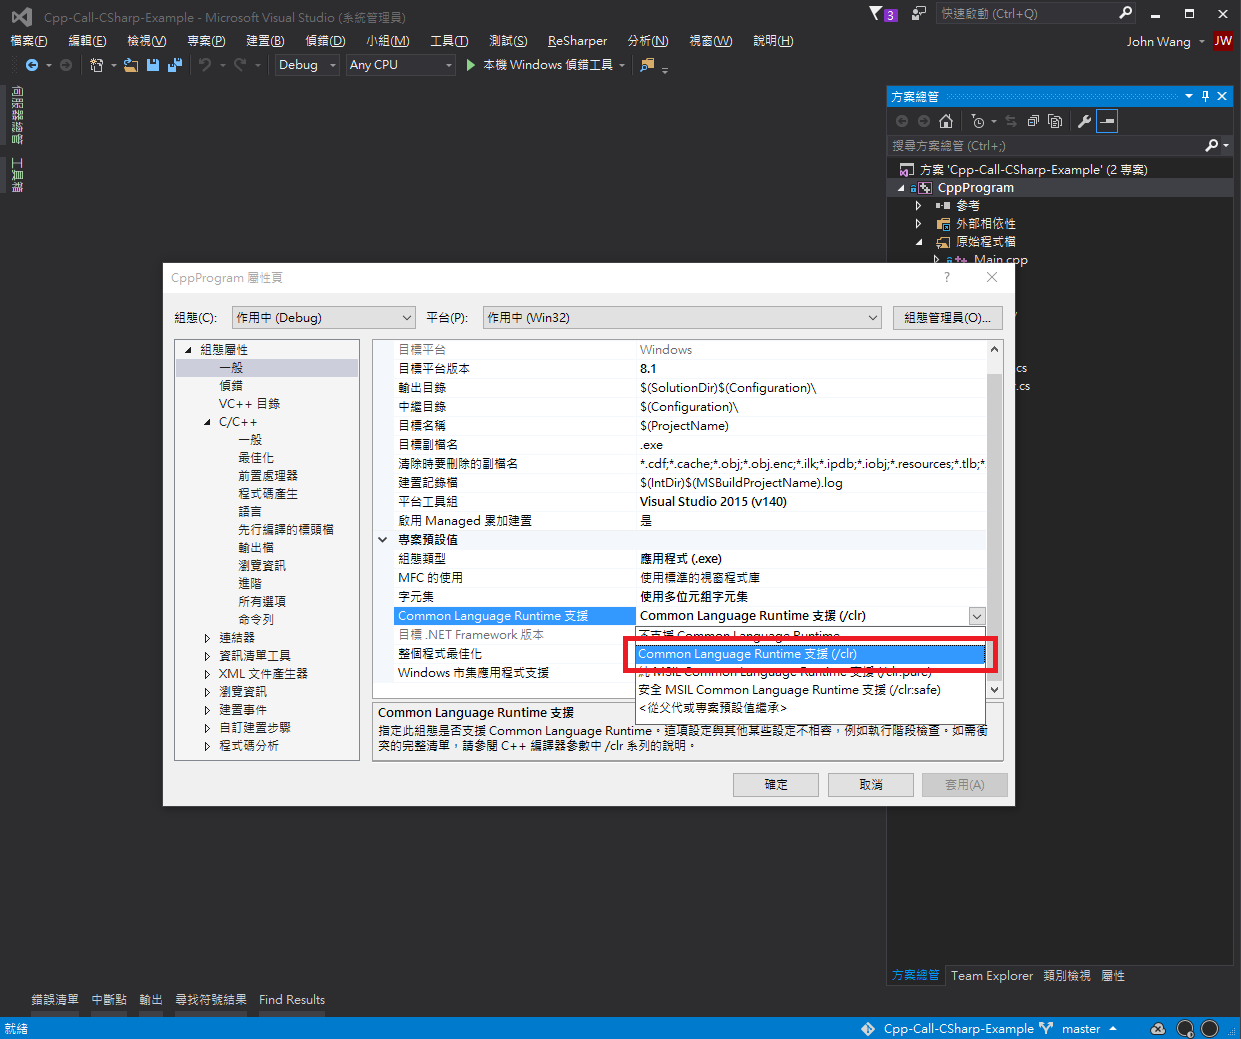
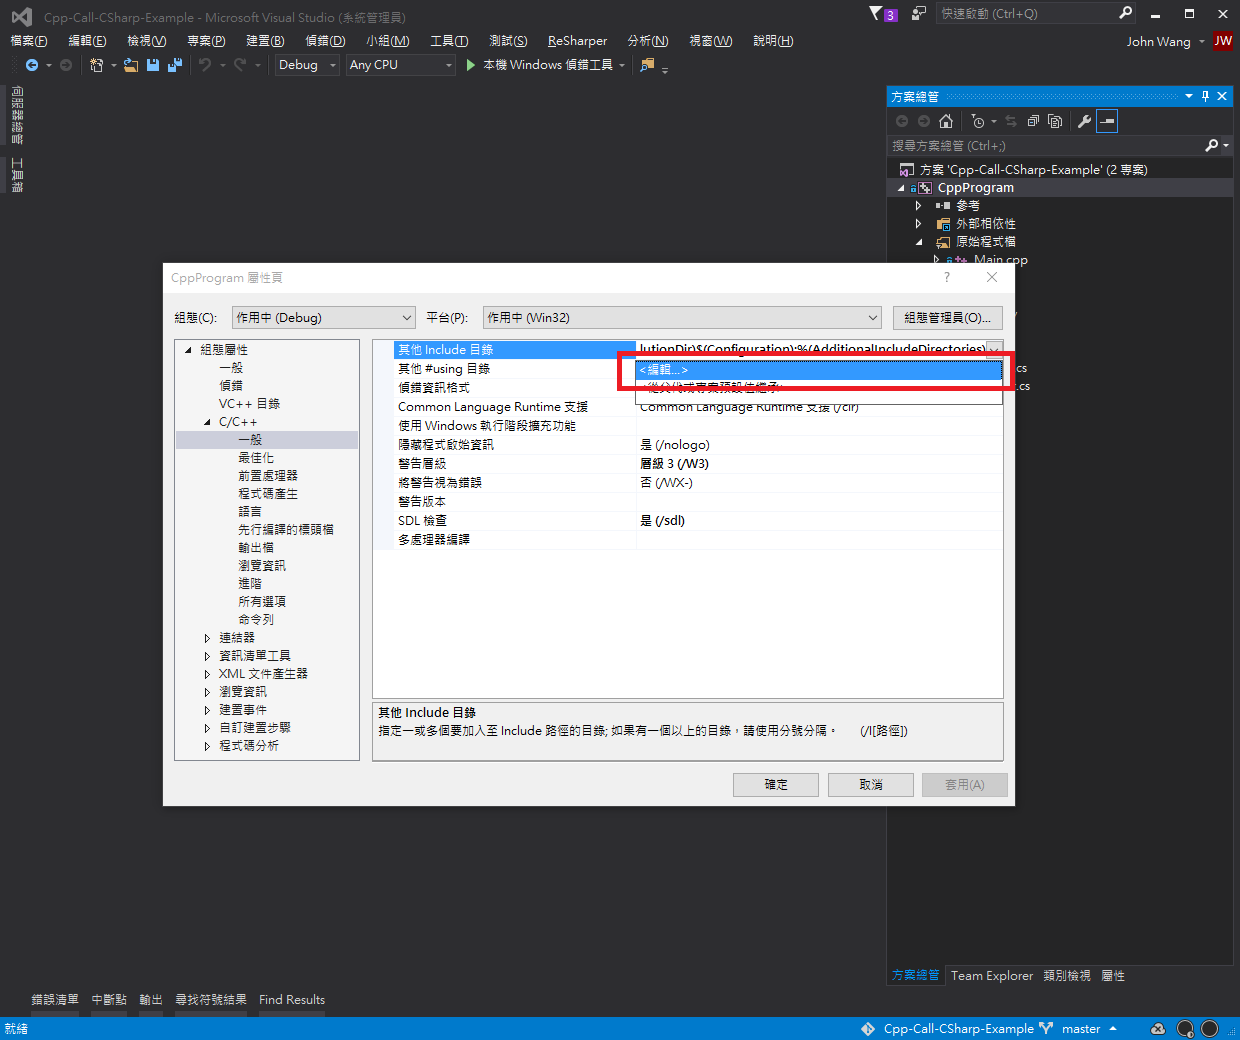
Update C++ project setting in README.md

diff --git a/README.md b/README.md
@@ -19,15 +19,12 @@ A Visual Studio 2015 example of calling C# COM library from C++ code.
 6. Set the "output path" to the location you want
 7. Save all changes
 
-### C++ Project Settings
+### C++ Project Settings (optional)
 1. Open "Properties" dialog of your C++ project
-2. At the general page, change "Common Language Runtime Support" option to "Common Language Runtime Support (/clr)"
+2. At the property dialog, locate C/C++ -> General and open the "Additional Include Directories" setting dialog
 
-   ![Common Language Runtime Support (/clr)](Assets/5.png)  
-3. Open the "Additional Include Directories" setting dialog
-
-   ![Open the "Additional Include Directories" setting dialog](Assets/6.png) 
+   ![Open the "Additional Include Directories" setting dialog](Assets/5.png) 
 4. Add the output path of your C# library project into the additional include directories of your C++ project
 
-   ![Add output path](Assets/7.png)  
+   ![Add output path](Assets/6.png)  
 5. Save all changes
